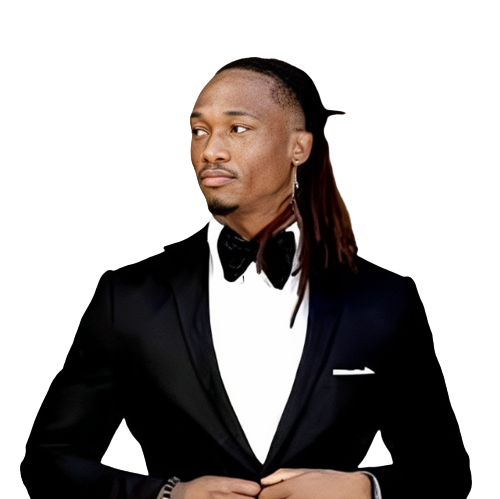
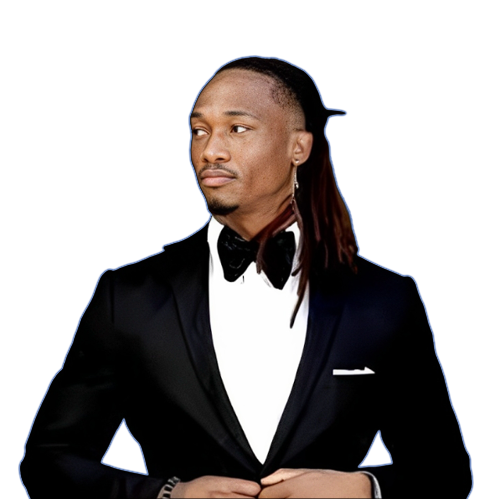
arrow change and about img change

diff --git a/assets/script.js b/assets/script.js
@@ -33,6 +33,8 @@ let searchBtn = document.querySelector('.searchbtn');
 let cartBtn = document.querySelector('.cartbtn');
 let darkBtn = document.querySelector('.darkbtn');
 let signBtn = document.getElementById('signImg');
+let ambatuBtn = document.getElementById('ambatuImg');
+
 
 
 
@@ -85,12 +87,15 @@ darkBtn.onclick = function(){
         darkBtn.classList.add("bx-sun");
 
         signImg.src = './img/sign/sign-dark.png';
+        ambatuImg.src = './img/About/about-ambatu-d.png';
+
     }
     else{
         darkBtn.classList.remove("bx-sun");
         darkBtn.classList.add("bx-moon");
 
         signImg.src = './img/sign/sign-light.png';
+        ambatuImg.src = './img/about/about-ambatu.png';
     }
 }
 

diff --git a/index.html b/index.html
@@ -38,7 +38,7 @@
 
 
     <div id="progress">
-        <span id="progress-value">&#x1F815;</span>
+        <span id="progress-value">&#11165;</span>
     </div>
 
     <div id="music">
@@ -208,7 +208,7 @@
         </div>
 
         <div class="img-wrapper" data-aos="fade-left" data-aos-duration="1000">
-            <img src="./img/About/about-ambatu.png" alt="#">
+            <img src="./img/About/about-ambatu.png" alt="#" id="ambatuImg">
         </div>
     </section>
 

diff --git a/recipes-list.html b/recipes-list.html
@@ -37,7 +37,7 @@
     </div>
 
     <div id="progress">
-        <span id="progress-value">&#x1F815;</span>
+        <span id="progress-value">&#11165;</span>
     </div>
 
     <audio autoplay>

diff --git a/recipes.html b/recipes.html
@@ -37,7 +37,7 @@
     </div>
 
     <div id="progress">
-        <span id="progress-value">&#x1F815;</span>
+        <span id="progress-value">&#11165;</span>
     </div>
 
     <div id="music">
